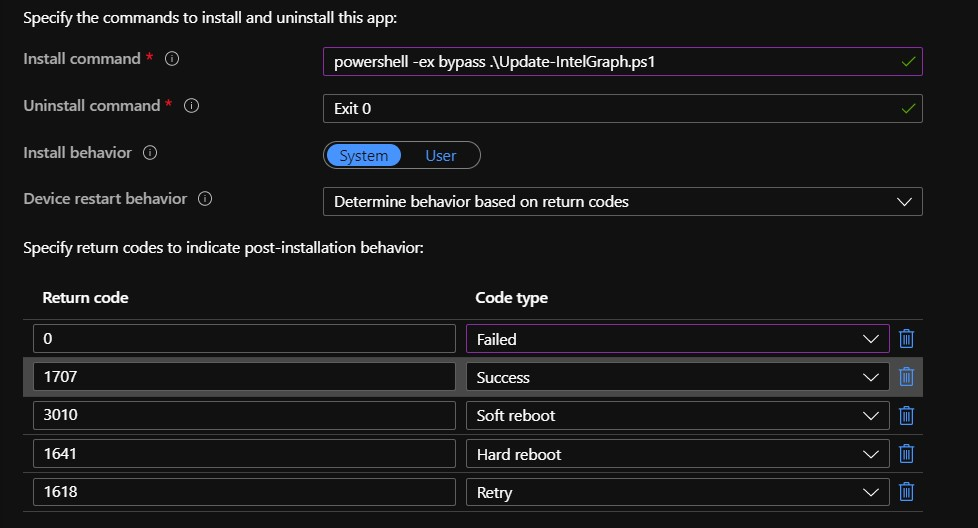
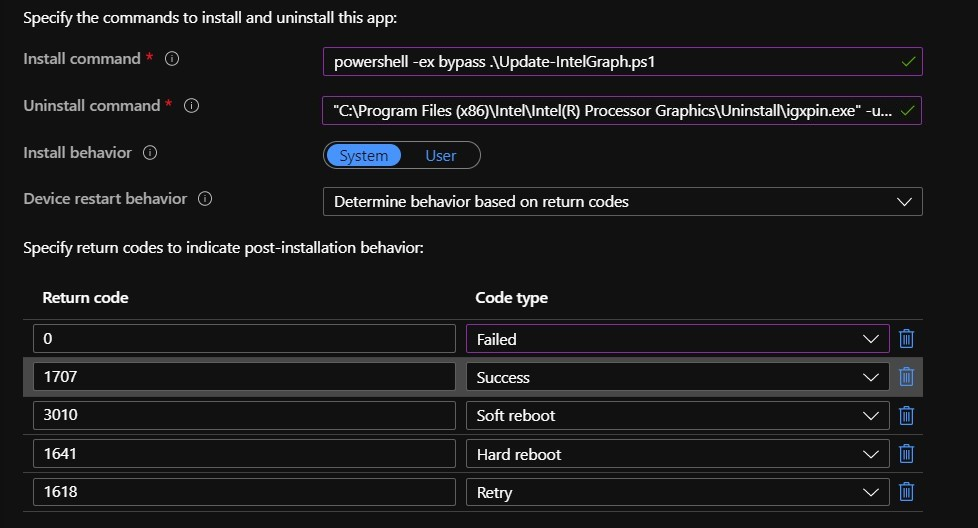
uninstall command

Changed region(s): [[0.3374, 0.1818, 0.9509, 0.2424]]

diff --git a/_posts/2020-03-28-Intune-Win32-CustomScript.md b/_posts/2020-03-28-Intune-Win32-CustomScript.md
@@ -75,8 +75,20 @@ Going further, you will need to specify command for installing your package. Bec
 
 ![install]({{ site.url }}{{ site.baseurl }}/assets/images/posts/2020-03-28_3.jpg)
 
-In this case I'm updating drivers so uninstall command won't be really needed so **Exit 0** should be fine. I hope that it won't brake anything that I'm not aware right now... 😅<br>
-After installing Intel Graphics drivers you need reboot the device. It can be done with installation parameter but it will do the reboot immediately which in business is not a good option. Better way is to act accordingly to return codes.<br>
+To find out software uninstall command run code below on device which already has it installed
+
+``` powershell
+Get-ItemProperty -Path 'HKLM:\SOFTWARE\Microsoft\Windows\CurrentVersion\Uninstall\*',
+                    'HKLM:\SOFTWARE\WOW6432Node\Microsoft\Windows\CurrentVersion\Uninstall\*',
+                    'HKCU:\SOFTWARE\Microsoft\Windows\CurrentVersion\Uninstall\*',
+                    'HKCU:\SOFTWARE\WOW6432Node\Microsoft\Windows\CurrentVersion\Uninstall\*' -ErrorAction Ignore |
+Where-Object DisplayName |
+Select-Object -Property DisplayName, DisplayVersion, UninstallString, InstallDate |
+Sort-Object -Property DisplayName
+```
+
+It scans through registry and will list all applications on device.<br>
+Installing Intel Graphics drivers requires device reboot. It can be done with installation parameter but it will do the reboot immediately which in business is not a good option. Better way is to act accordingly to return codes.<br>
 **Soft reboot** - will only show Toast notification that your device needs to be restarted after installing distributed software. In your OS language.
 
 ![soft]({{ site.url }}{{ site.baseurl }}/assets/images/posts/2020-03-28_4.jpg)
